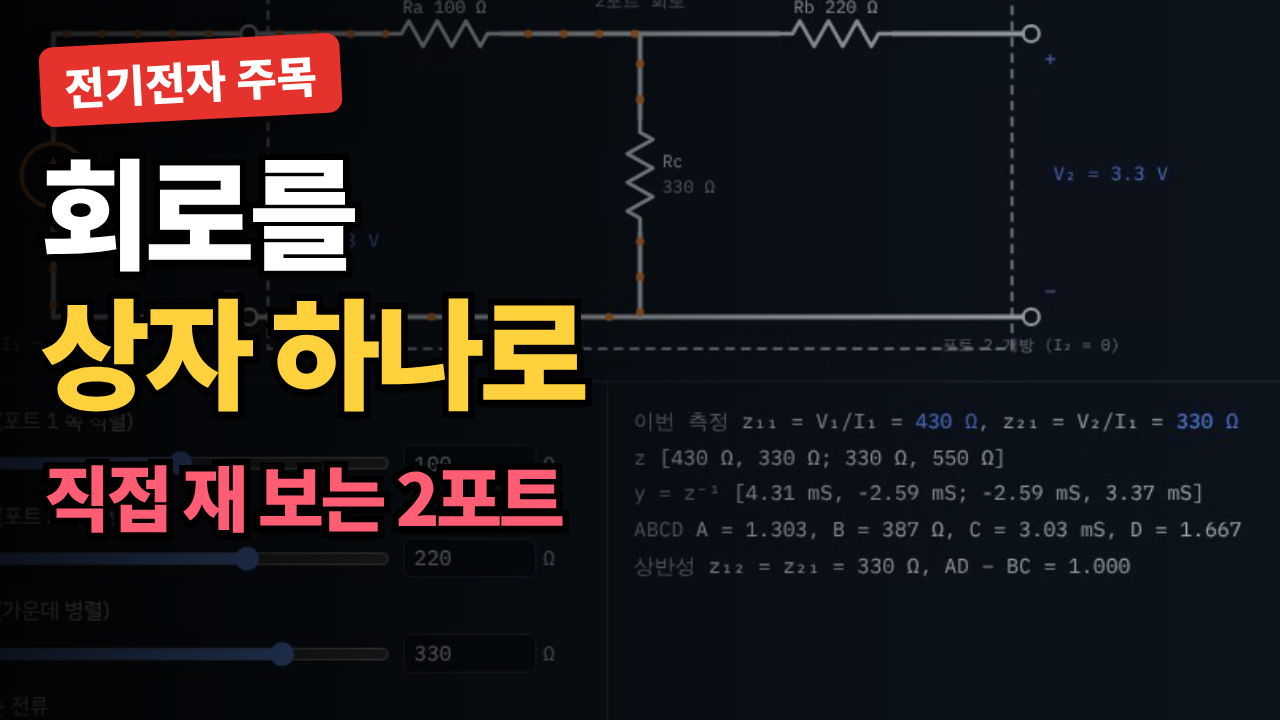
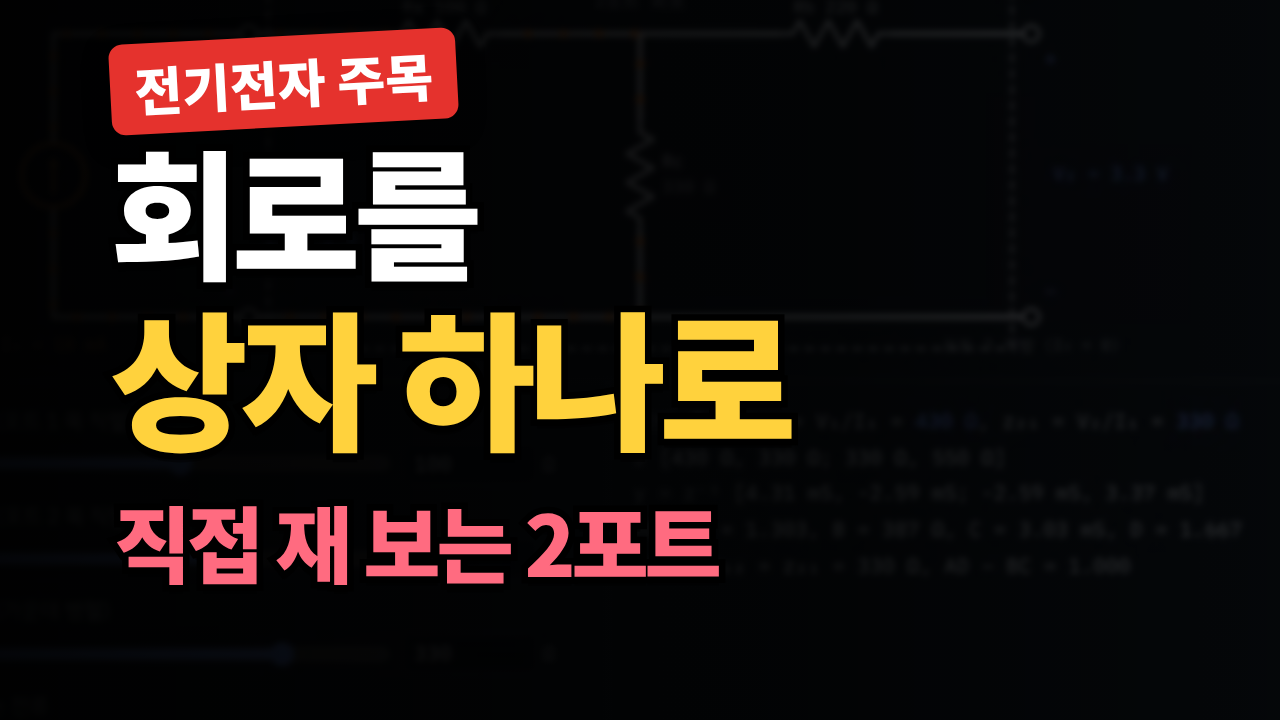
2포트 썸네일 V2 확정: 글자를 안쪽으로 옮기고 키움, 배경을 어둡게 해 잘 보이게
Claude-Session: https://claude.ai/code/session_011GVNjRzP9TpBskwaAgxQZF

diff --git a/youtube/twoport/thumbnail/thumbs.html b/youtube/twoport/thumbnail/thumbs.html
@@ -19,12 +19,12 @@ body{background:#000;font-family:'Noto Sans CJK KR',sans-serif}
 #V1 .badge{left:40px;top:40px}
 #V1 .person{right:-40px;height:330px}
 /* V2 끝까지 남는 9% */
-#V2 .img{left:-60px;top:-130px;width:1400px;height:900px;border:none;border-radius:0;background-image:url(g_site.png);filter:saturate(1.2) brightness(.75)}
-#V2 .shade{position:absolute;inset:0;background:linear-gradient(90deg,rgba(0,0,0,.85),rgba(0,0,0,.25) 60%,transparent)}
-#V2 .a{left:40px;top:150px;font-size:120px;color:#fff}
-#V2 .b{left:40px;top:290px;font-size:120px;color:#ffd23d}
-#V2 .c{left:44px;top:460px;font-size:72px;color:#ff5d73}
-#V2 .badge{left:40px;top:40px}
+#V2 .img{left:-60px;top:-130px;width:1400px;height:900px;border:none;border-radius:0;background-image:url(g_site.png);filter:blur(3px) saturate(1.1) brightness(.45)}
+#V2 .shade{position:absolute;inset:0;background:linear-gradient(90deg,rgba(0,0,0,.92),rgba(0,0,0,.7) 65%,rgba(0,0,0,.45))}
+#V2 .a{left:110px;top:140px;font-size:140px;color:#fff}
+#V2 .b{left:110px;top:300px;font-size:150px;color:#ffd23d}
+#V2 .c{left:114px;top:500px;font-size:84px;color:#ff6b80}
+#V2 .badge{left:110px;top:36px;font-size:52px}
 /* V3 시험 필수 · 푸리에 */
 #V3{background:linear-gradient(135deg,#1a1033,#0b0c10 60%)}
 #V3 .img{right:40px;top:150px;width:600px;height:338px;background-image:url(g_z.png)}

diff --git a/youtube/HANDOFF.md b/youtube/HANDOFF.md
@@ -37,7 +37,7 @@
 
 ## 진행 중
 - RLC 롱폼(라플라스 후속) + 쇼츠3·릴스3: 대본·Manim 10장면·썸네일·커버 준비됨 (youtube/rlc), 음성 만들기부터 이어서
-- 2포트 회로 롱폼(푸리에 후속, 회로 17장) + 쇼츠3·릴스3: 대본·롱폼 음성 조각·Manim 10장면 1080p·사이트 녹화 스크립트·합성 설정·썸네일 3종·커버 3종 준비 (youtube/twoport). 다음은 `sh youtube/twoport/tts.sh` 로 음성('대본' 환경 필요) → 발음 검사 → 합성
+- 2포트 회로 롱폼(푸리에 후속, 회로 17장) + 쇼츠3·릴스3: 대본·롱폼 음성 조각·Manim 10장면 1080p·사이트 녹화 스크립트·합성 설정·썸네일(V2로 확정)·커버 3종 준비 (youtube/twoport). 다음은 `sh youtube/twoport/tts.sh` 로 음성('대본' 환경 필요) → 발음 검사 → 합성
 - 푸리에 급수 롱폼(RLC 후속) + 쇼츠3·릴스3: 대본·음성 스크립트·Manim 11장면·녹화 스크립트 미리 준비 (youtube/fourier)
 - 라플라스 롱폼 + 쇼츠3·릴스3: 완료 (video-files `라플라스/`, 기록 youtube/laplace/이어하기.md)
 - ⚠ test1 저장소는 공개. video-files '라플라스_작업중/voice/' 에 사용자 목소리 샘플이 올라가 있음 → 사용자 결정(2026-10-18): 그대로 둠
